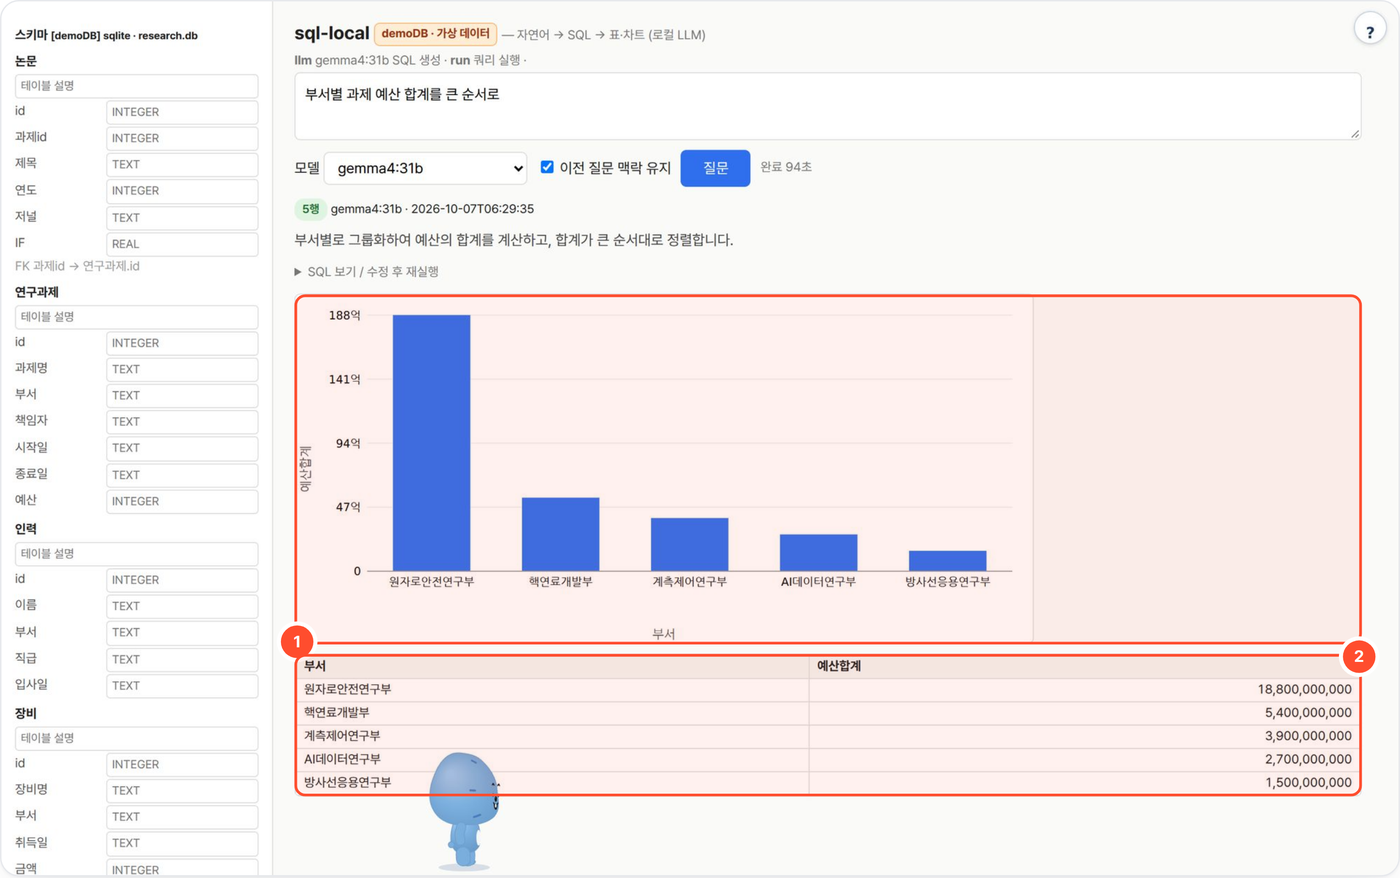
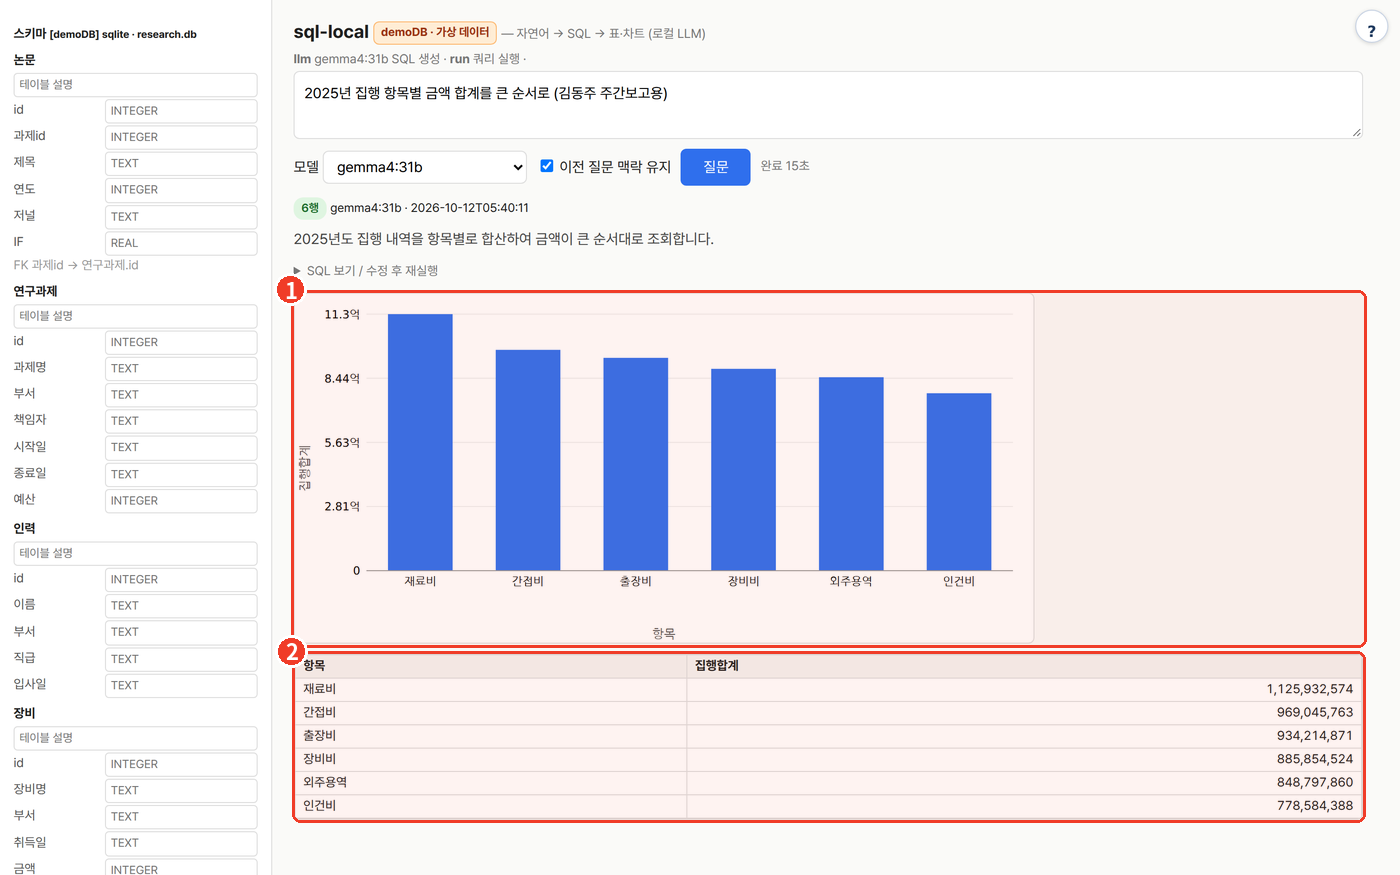
README: 사용 화면·예시를 새 실행 결과로 교체 (2026-10-12)

diff --git a/README.md b/README.md
@@ -22,17 +22,17 @@
 
 ## 예시
 
-demoDB(가상 데이터)에서 실제로 실행한 결과입니다(gemma4:31b, 2026-10-07T06:29:35).
+demoDB(가상 데이터)에서 실제로 실행한 결과입니다(gemma4:31b, 2026-10-12T05:40:11).
 
-- **입력**: `부서별 과제 예산 합계를 큰 순서로`
+- **입력**: `2025년 집행 항목별 금액 합계를 큰 순서로 (김동주 주간보고용)`
 - **생성 SQL**:
 
   ```sql
-  SELECT "부서", SUM("예산") AS "예산합계"
-  FROM "연구과제" GROUP BY "부서"
-  ORDER BY "예산합계" DESC LIMIT 500
+  SELECT "항목", SUM("금액") AS "집행합계" FROM "집행"
+  WHERE "월" LIKE '2025%' GROUP BY "항목"
+  ORDER BY "집행합계" DESC LIMIT 500
   ```
-- **결과**: 5행 집계 표 + SVG 막대 차트(위 화면). 부서명과 금액은 `seed.py`가 만든 가상 데이터입니다.
+- **결과**: 6행 집계 표(재료비 1,125,932,574 · 간접비 · 출장비 · 장비비 · 외주용역 · 인건비) + SVG 막대 차트(위 화면). 금액은 `seed.py`가 만든 가상 데이터입니다. 괄호 안 메모는 SQL 조건에 들어가지 않았습니다.
 
 ## 설치·실행
 
